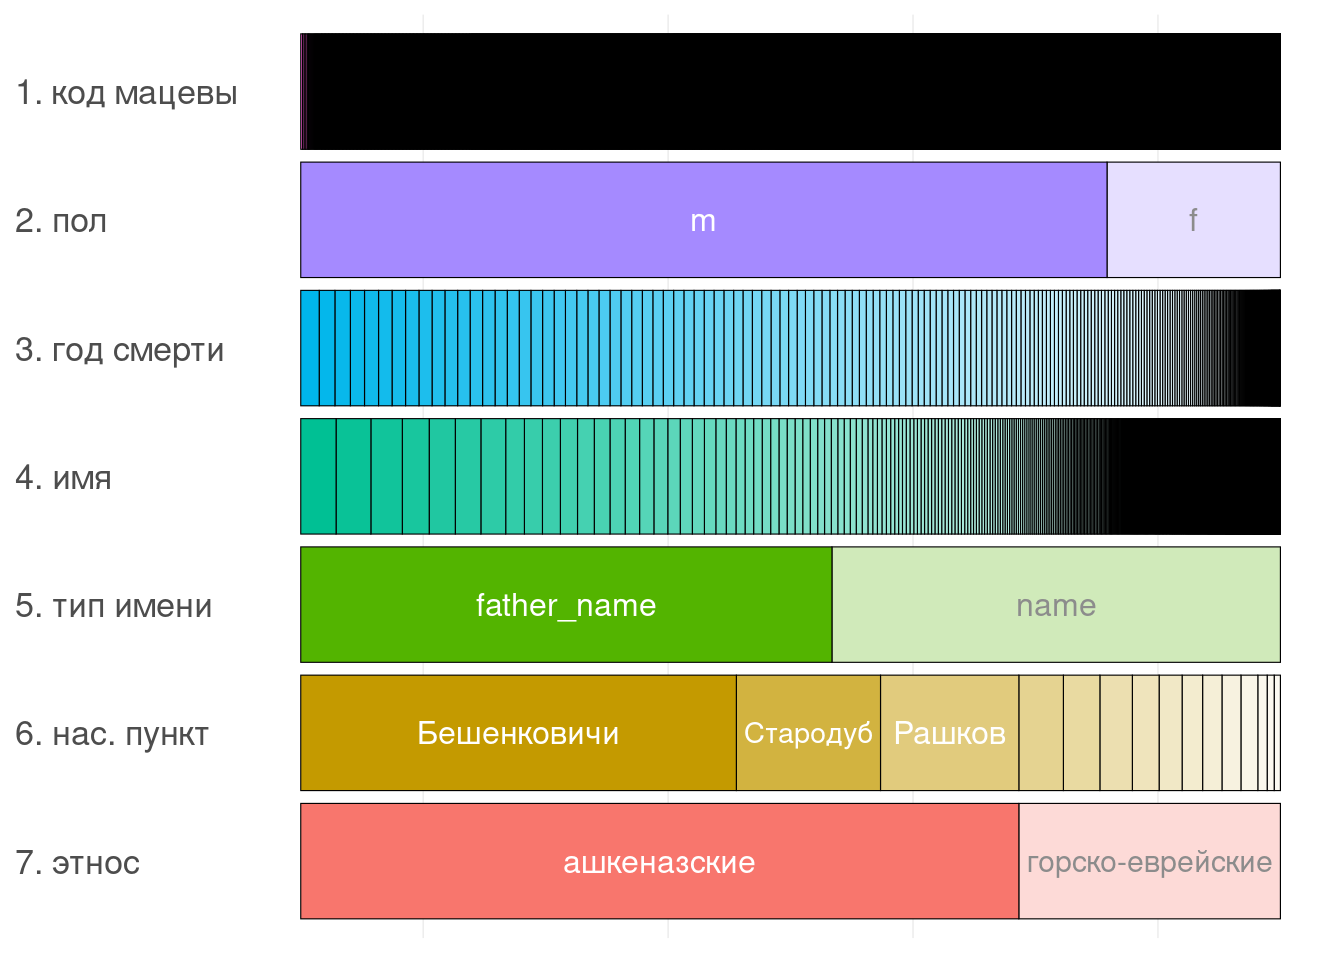
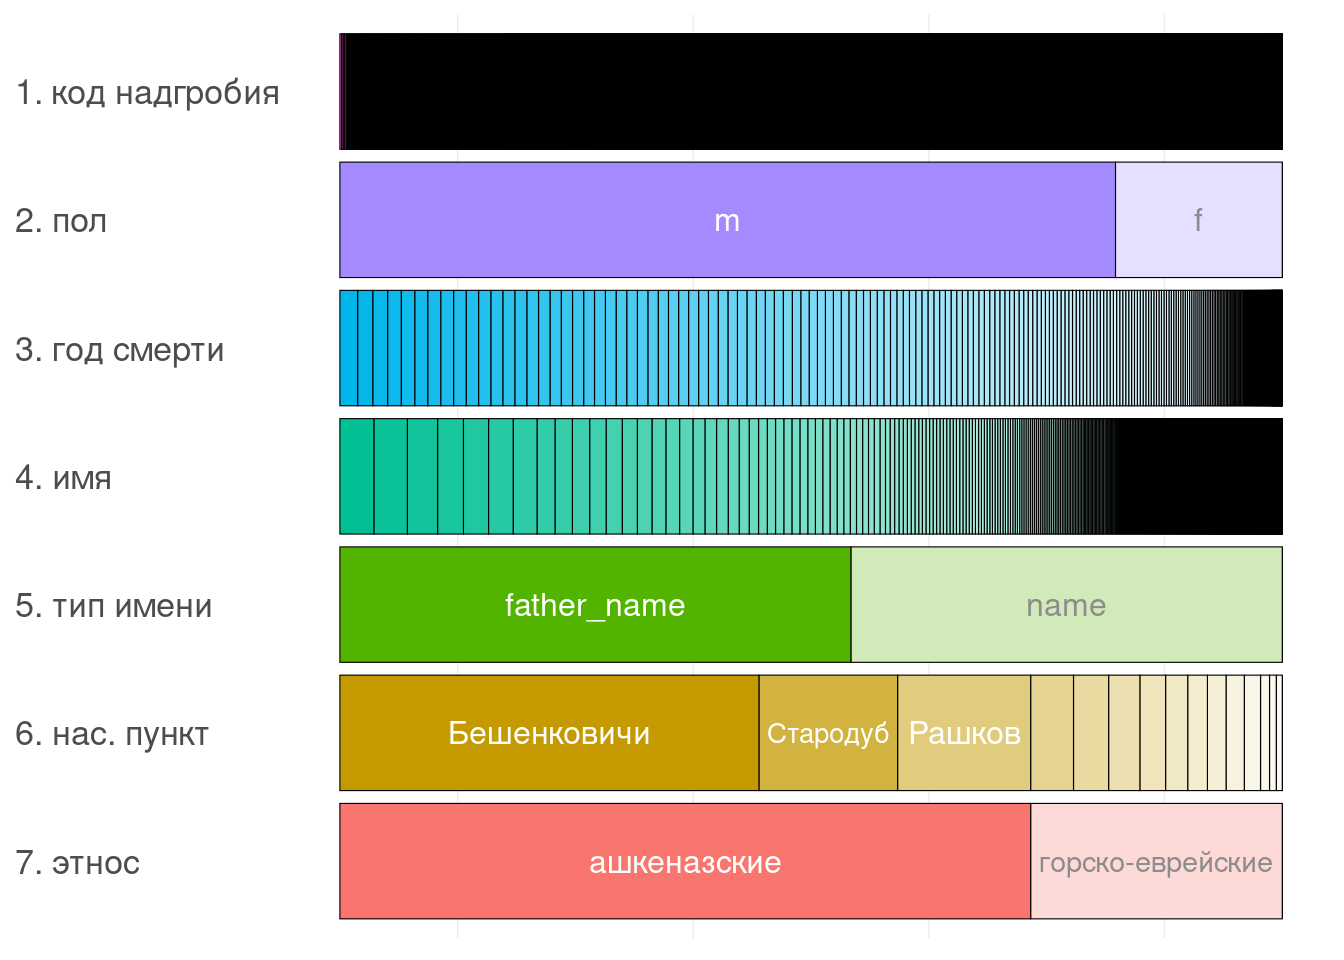
update

diff --git a/index.html b/index.html
@@ -152,7 +152,7 @@ window.Quarto = {
 <summary>Code</summary>
 <div class="sourceCode cell-code" id="cb2"><pre class="sourceCode r code-with-copy"><code class="sourceCode r"><span id="cb2-1"><a href="#cb2-1" aria-hidden="true" tabindex="-1"></a>df <span class="sc">|&gt;</span> </span>
 <span id="cb2-2"><a href="#cb2-2" aria-hidden="true" tabindex="-1"></a>  <span class="fu">mutate</span>(<span class="at">year =</span> <span class="fu">as.character</span>(year)) <span class="sc">|&gt;</span> </span>
-<span id="cb2-3"><a href="#cb2-3" aria-hidden="true" tabindex="-1"></a>  <span class="fu">rename</span>(<span class="st">`</span><span class="at">1. код мацевы</span><span class="st">`</span> <span class="ot">=</span> code,</span>
+<span id="cb2-3"><a href="#cb2-3" aria-hidden="true" tabindex="-1"></a>  <span class="fu">rename</span>(<span class="st">`</span><span class="at">1. код надгробия</span><span class="st">`</span> <span class="ot">=</span> code,</span>
 <span id="cb2-4"><a href="#cb2-4" aria-hidden="true" tabindex="-1"></a>         <span class="st">`</span><span class="at">2. пол</span><span class="st">`</span> <span class="ot">=</span> gender,</span>
 <span id="cb2-5"><a href="#cb2-5" aria-hidden="true" tabindex="-1"></a>         <span class="st">`</span><span class="at">3. год смерти</span><span class="st">`</span> <span class="ot">=</span> year,</span>
 <span id="cb2-6"><a href="#cb2-6" aria-hidden="true" tabindex="-1"></a>         <span class="st">`</span><span class="at">4. имя</span><span class="st">`</span> <span class="ot">=</span> name,</span>
@@ -315,6 +315,13 @@ window.Quarto = {
 </table>
 </div>
 </div>
+<p>Мы использовали <strong>скользящую энтропию</strong> — оконную функцию, которая вычисляла меру энтропии не для всего датасета, а для некоторого временного интервала (мы использовали окно размером в 15 лет). Так что, если принять во внимание, что наши данные охватывают временной промежуток c 1671 по 2011 года, при анализе мы считали значение энтропии в следующих промежутках:</p>
+<ul>
+<li>1671-1686</li>
+<li>1672-1687</li>
+<li>1673-1688</li>
+<li>и т. д.</li>
+</ul>
 <div class="cell">
 <details class="code-fold">
 <summary>Code</summary>
